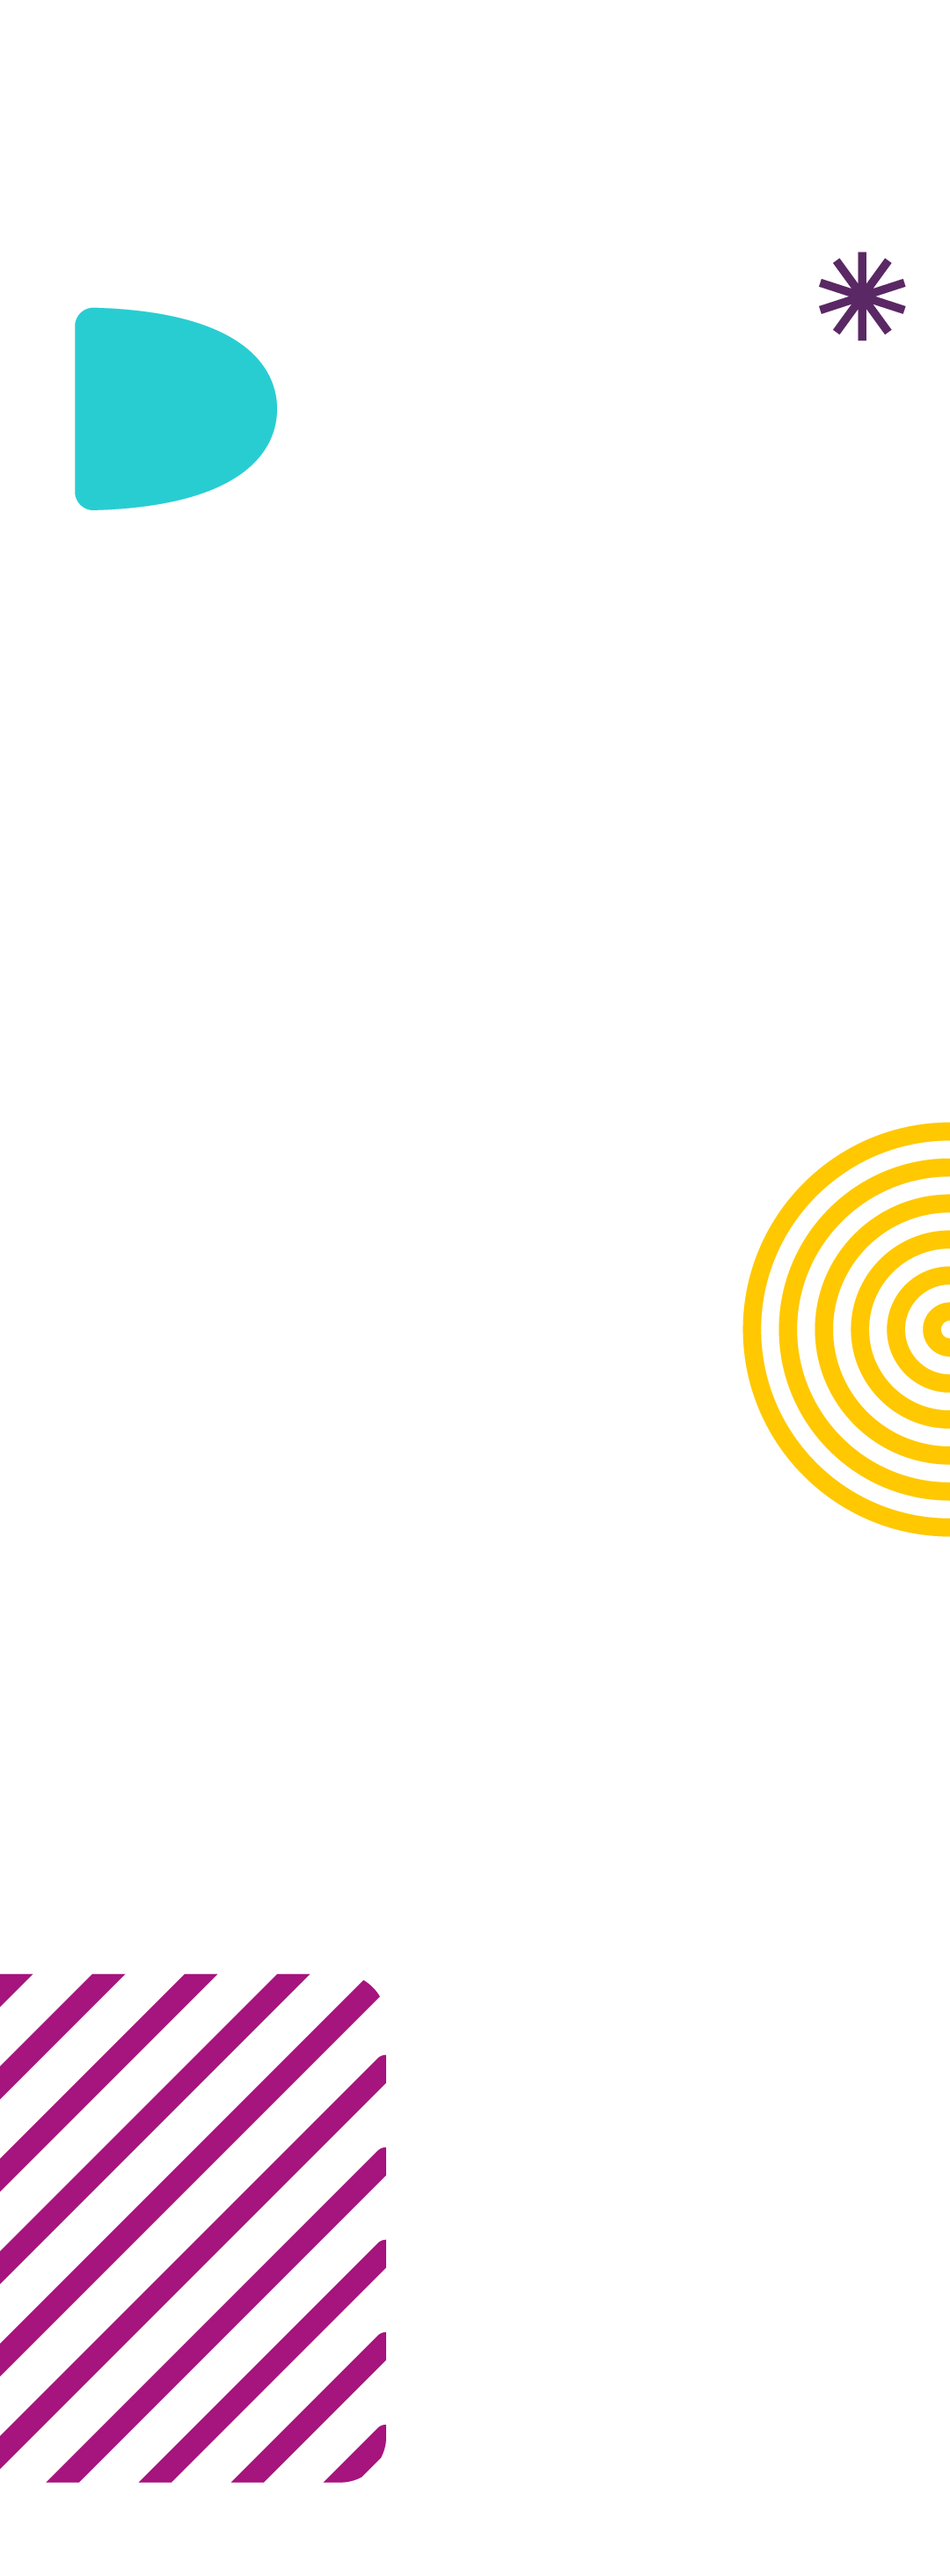
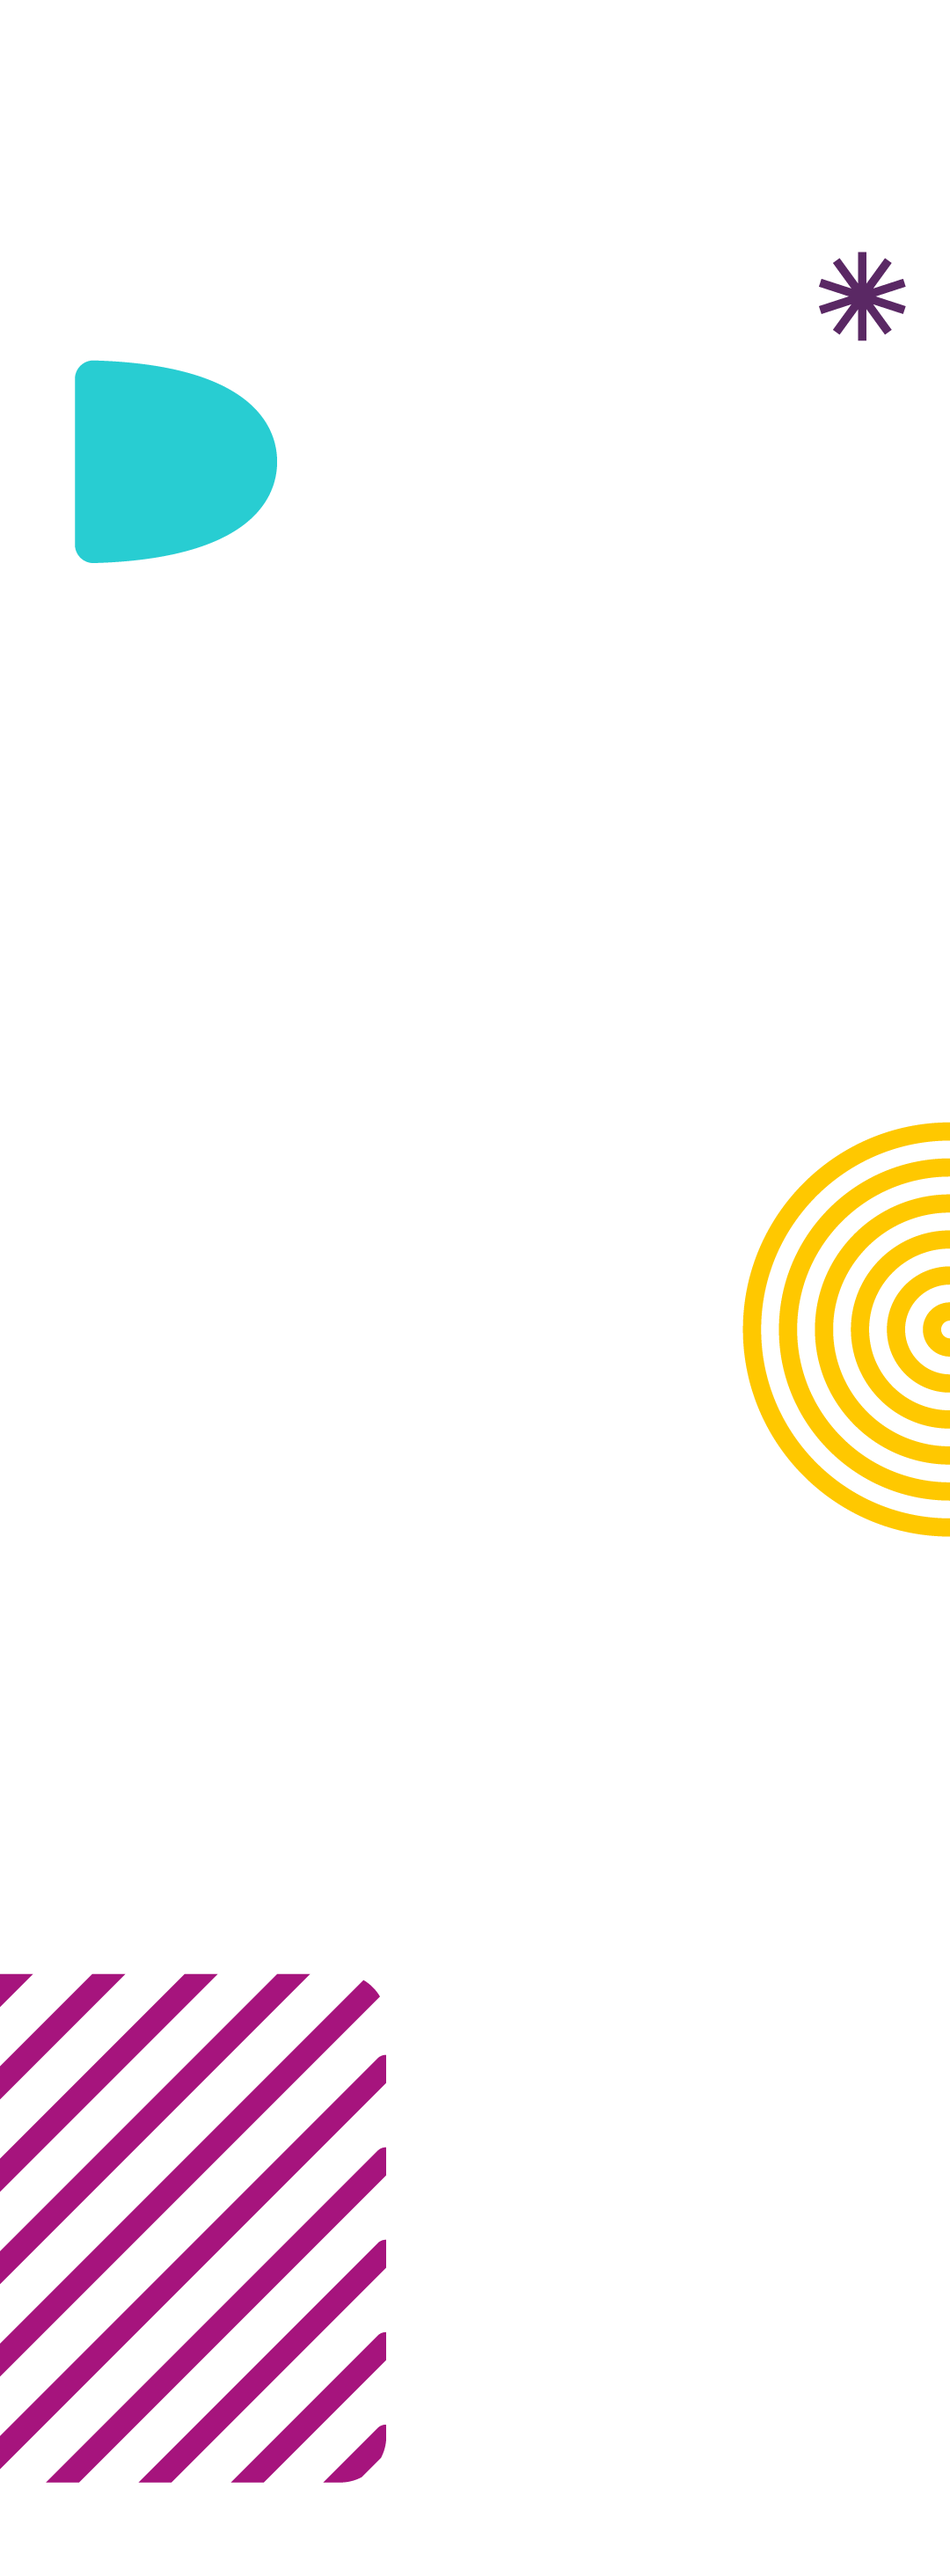
Update mobile post-game background

Changed region(s): [[0.0611, 0.0932, 0.3056, 0.2176]]

diff --git a/styles.css b/styles.css
@@ -518,7 +518,7 @@ h2 {
 }
 
 .links-section h2 {
-  color: #5a2864;
+  color: var(--green-900);
 }
 
 .link-grid {
